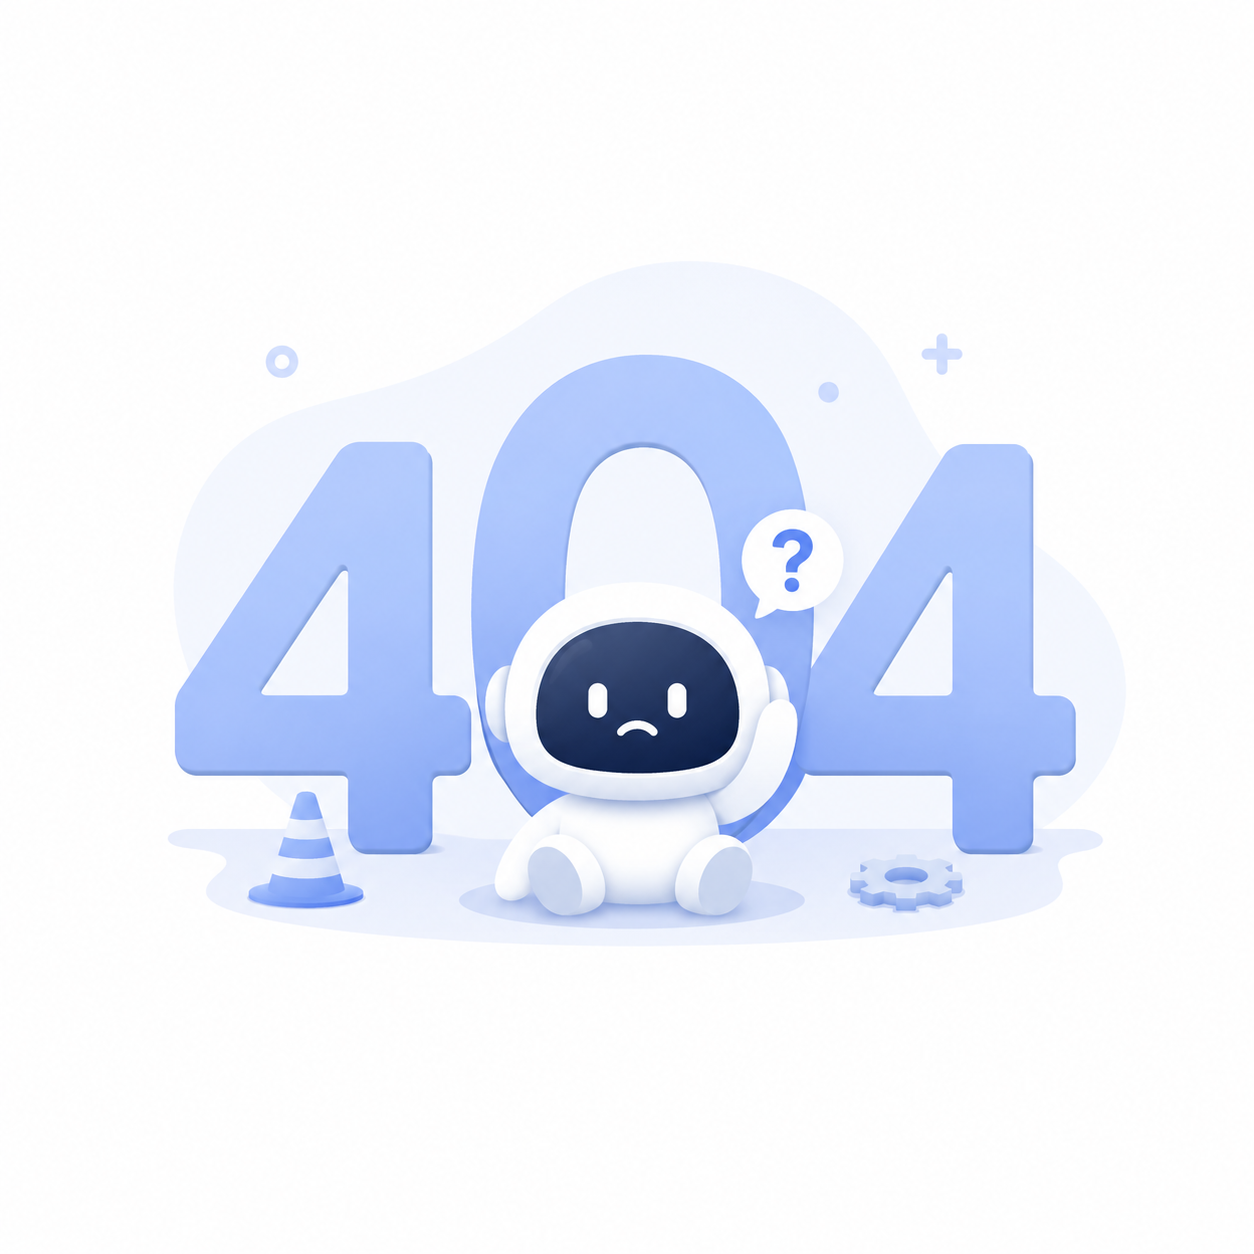
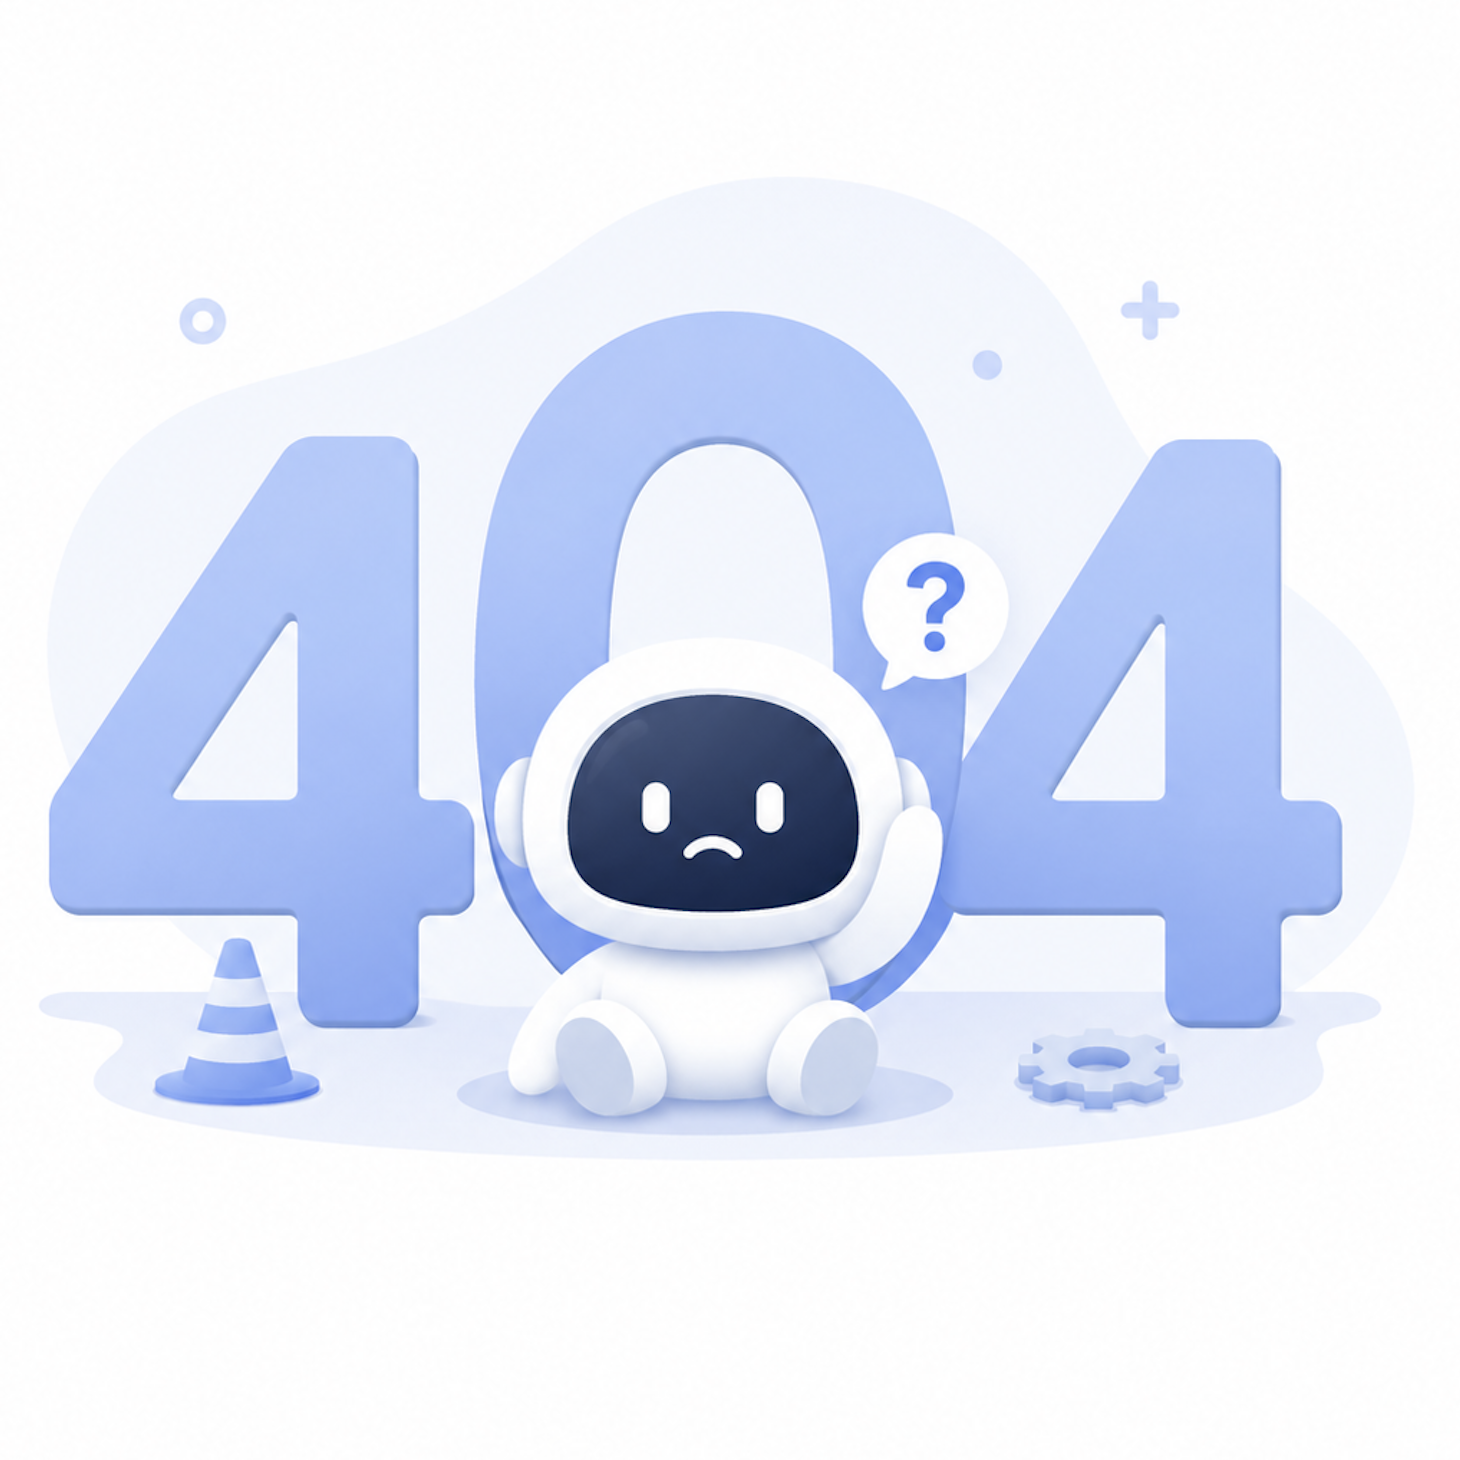
init

diff --git a/src/views/system/menu.vue b/src/views/system/menu.vue
@@ -149,14 +149,14 @@ const loading = ref(false)
 const tableData = ref([])
 
 const columns = [
-  { prop: 'name', label: '菜单名称', minWidth: 160, showOverflowTooltip: true },
-  { label: '菜单类型', width: 90, align: 'center', slotName: 'menuType' },
-  { label: '路由地址', minWidth: 140, showOverflowTooltip: true, slotName: 'path' },
-  { label: '权限标识', minWidth: 120, showOverflowTooltip: true, slotName: 'authMark' },
-  { label: '图标', width: 70, align: 'center', slotName: 'icon' },
-  { label: '状态', width: 80, align: 'center', slotName: 'status' },
-  { prop: 'sort', label: '排序', width: 70, align: 'center' },
-  { label: '操作', width: 200, fixed: 'right', align: 'center', slotName: 'action' },
+  { prop: 'name', label: '菜单名称', showOverflowTooltip: true },
+  { label: '菜单类型', align: 'center', slotName: 'menuType' },
+  { label: '路由地址', showOverflowTooltip: true, slotName: 'path' },
+  { label: '权限标识', showOverflowTooltip: true, slotName: 'authMark' },
+  { label: '图标', align: 'center', slotName: 'icon' },
+  { label: '状态', align: 'center', slotName: 'status' },
+  { prop: 'sort', label: '排序', align: 'center' },
+  { label: '操作', width: 180, fixed: 'right', align: 'center', slotName: 'action' },
 ]
 
 const searchForm = reactive({

diff --git a/src/views/system/dictionary.vue b/src/views/system/dictionary.vue
@@ -76,19 +76,19 @@
       :tree-props="{ children: 'children' }"
       default-expand-all
     >
-      <el-table-column prop="dictValue" label="枚举名称" min-width="180">
+      <el-table-column prop="dictValue" label="枚举名称">
         <template #default="{ row }">
           <el-input v-if="row.isEditing" v-model="row.dictValue" placeholder="请输入枚举名称" />
           <span v-else>{{ row.dictValue || '-' }}</span>
         </template>
       </el-table-column>
-      <el-table-column prop="keyValue" label="枚举编码" min-width="160">
+      <el-table-column prop="keyValue" label="枚举编码">
         <template #default="{ row }">
           <el-input v-if="row.isEditing" v-model="row.keyValue" placeholder="请输入枚举编码" />
           <span v-else>{{ row.keyValue || '-' }}</span>
         </template>
       </el-table-column>
-      <el-table-column prop="sortOrder" label="排序" width="100" align="center">
+      <el-table-column prop="sortOrder" label="排序" align="center">
         <template #default="{ row }">
           <el-input-number
             v-if="row.isEditing"
@@ -100,7 +100,7 @@
           <span v-else>{{ row.sortOrder }}</span>
         </template>
       </el-table-column>
-      <el-table-column label="操作" width="200" fixed="right" align="center">
+      <el-table-column label="操作" width="180" fixed="right" align="center">
         <template #default="{ row }">
           <template v-if="row.isEditing">
             <el-button type="primary" link :loading="row.saving" @click="saveEnumRow(row)"
@@ -140,7 +140,7 @@ const loading = ref(false)
 const tableData = ref([])
 
 const columns = [
-  { type: 'index', label: '序号', width: 60, align: 'center' },
+  { type: 'index', label: '序号', width: 80, align: 'center' },
   {
     prop: 'name',
     label: '字典名称',
@@ -159,7 +159,7 @@ const columns = [
     showOverflowTooltip: true,
     formatter: (row) => row.description || '-',
   },
-  { label: '操作', width: 220, fixed: 'right', align: 'center', slotName: 'action' },
+  { label: '操作', width: 120, fixed: 'right', align: 'center', slotName: 'action' },
 ]
 
 const searchForm = reactive({

diff --git a/src/views/system/department.vue b/src/views/system/department.vue
@@ -136,11 +136,11 @@ const tableData = ref([])
 
 const columns = [
   { prop: 'deptName', label: '部门名称', showOverflowTooltip: true },
-  { label: '负责人', minWidth: 120, showOverflowTooltip: true, slotName: 'leaders' },
-  { label: '部门成员', minWidth: 120, showOverflowTooltip: true, slotName: 'members' },
-  { label: '状态', width: 80, align: 'center', slotName: 'status' },
-  { prop: 'sortOrder', label: '排序', width: 80, align: 'center' },
-  { label: '操作', width: 200, fixed: 'right', align: 'center', slotName: 'action' },
+  { label: '负责人', showOverflowTooltip: true, slotName: 'leaders' },
+  { label: '部门成员', showOverflowTooltip: true, slotName: 'members' },
+  { label: '状态', align: 'center', slotName: 'status' },
+  { prop: 'sortOrder', label: '排序', align: 'center' },
+  { label: '操作', width: 180, fixed: 'right', align: 'center', slotName: 'action' },
 ]
 
 const searchForm = reactive({

diff --git a/src/views/system/user.vue b/src/views/system/user.vue
@@ -155,7 +155,7 @@ const tableData = ref([])
 const roleList = ref([])
 
 const columns = [
-  { type: 'index', label: '序号', width: 60, align: 'center' },
+  { type: 'index', label: '序号', width: 80, align: 'center' },
   {
     prop: 'userName',
     label: '用户名',
@@ -174,9 +174,9 @@ const columns = [
     showOverflowTooltip: true,
     formatter: (row) => row.phone || '-',
   },
-  { label: '角色名称', minWidth: 120, slotName: 'roleNames' },
-  { label: '所属部门', minWidth: 120, slotName: 'departments' },
-  { label: '状态', width: 80, align: 'center', slotName: 'status' },
+  { label: '角色名称', slotName: 'roleNames' },
+  { label: '所属部门', slotName: 'departments' },
+  { label: '状态', align: 'center', slotName: 'status' },
   { label: '操作', width: 120, fixed: 'right', align: 'center', slotName: 'action' },
 ]
 

diff --git a/src/views/system/role.vue b/src/views/system/role.vue
@@ -120,7 +120,7 @@ const loading = ref(false)
 const tableData = ref([])
 
 const columns = [
-  { type: 'index', label: '序号', width: 60, align: 'center' },
+  { type: 'index', label: '序号', width: 80, align: 'center' },
   {
     prop: 'roleName',
     label: '角色名称',
@@ -139,8 +139,8 @@ const columns = [
     showOverflowTooltip: true,
     formatter: (row) => row.description || '-',
   },
-  { label: '状态', width: 80, align: 'center', slotName: 'status' },
-  { label: '操作', width: 200, fixed: 'right', align: 'center', slotName: 'action' },
+  { label: '状态', align: 'center', slotName: 'status' },
+  { label: '操作', width: 180, fixed: 'right', align: 'center', slotName: 'action' },
 ]
 
 const searchForm = reactive({